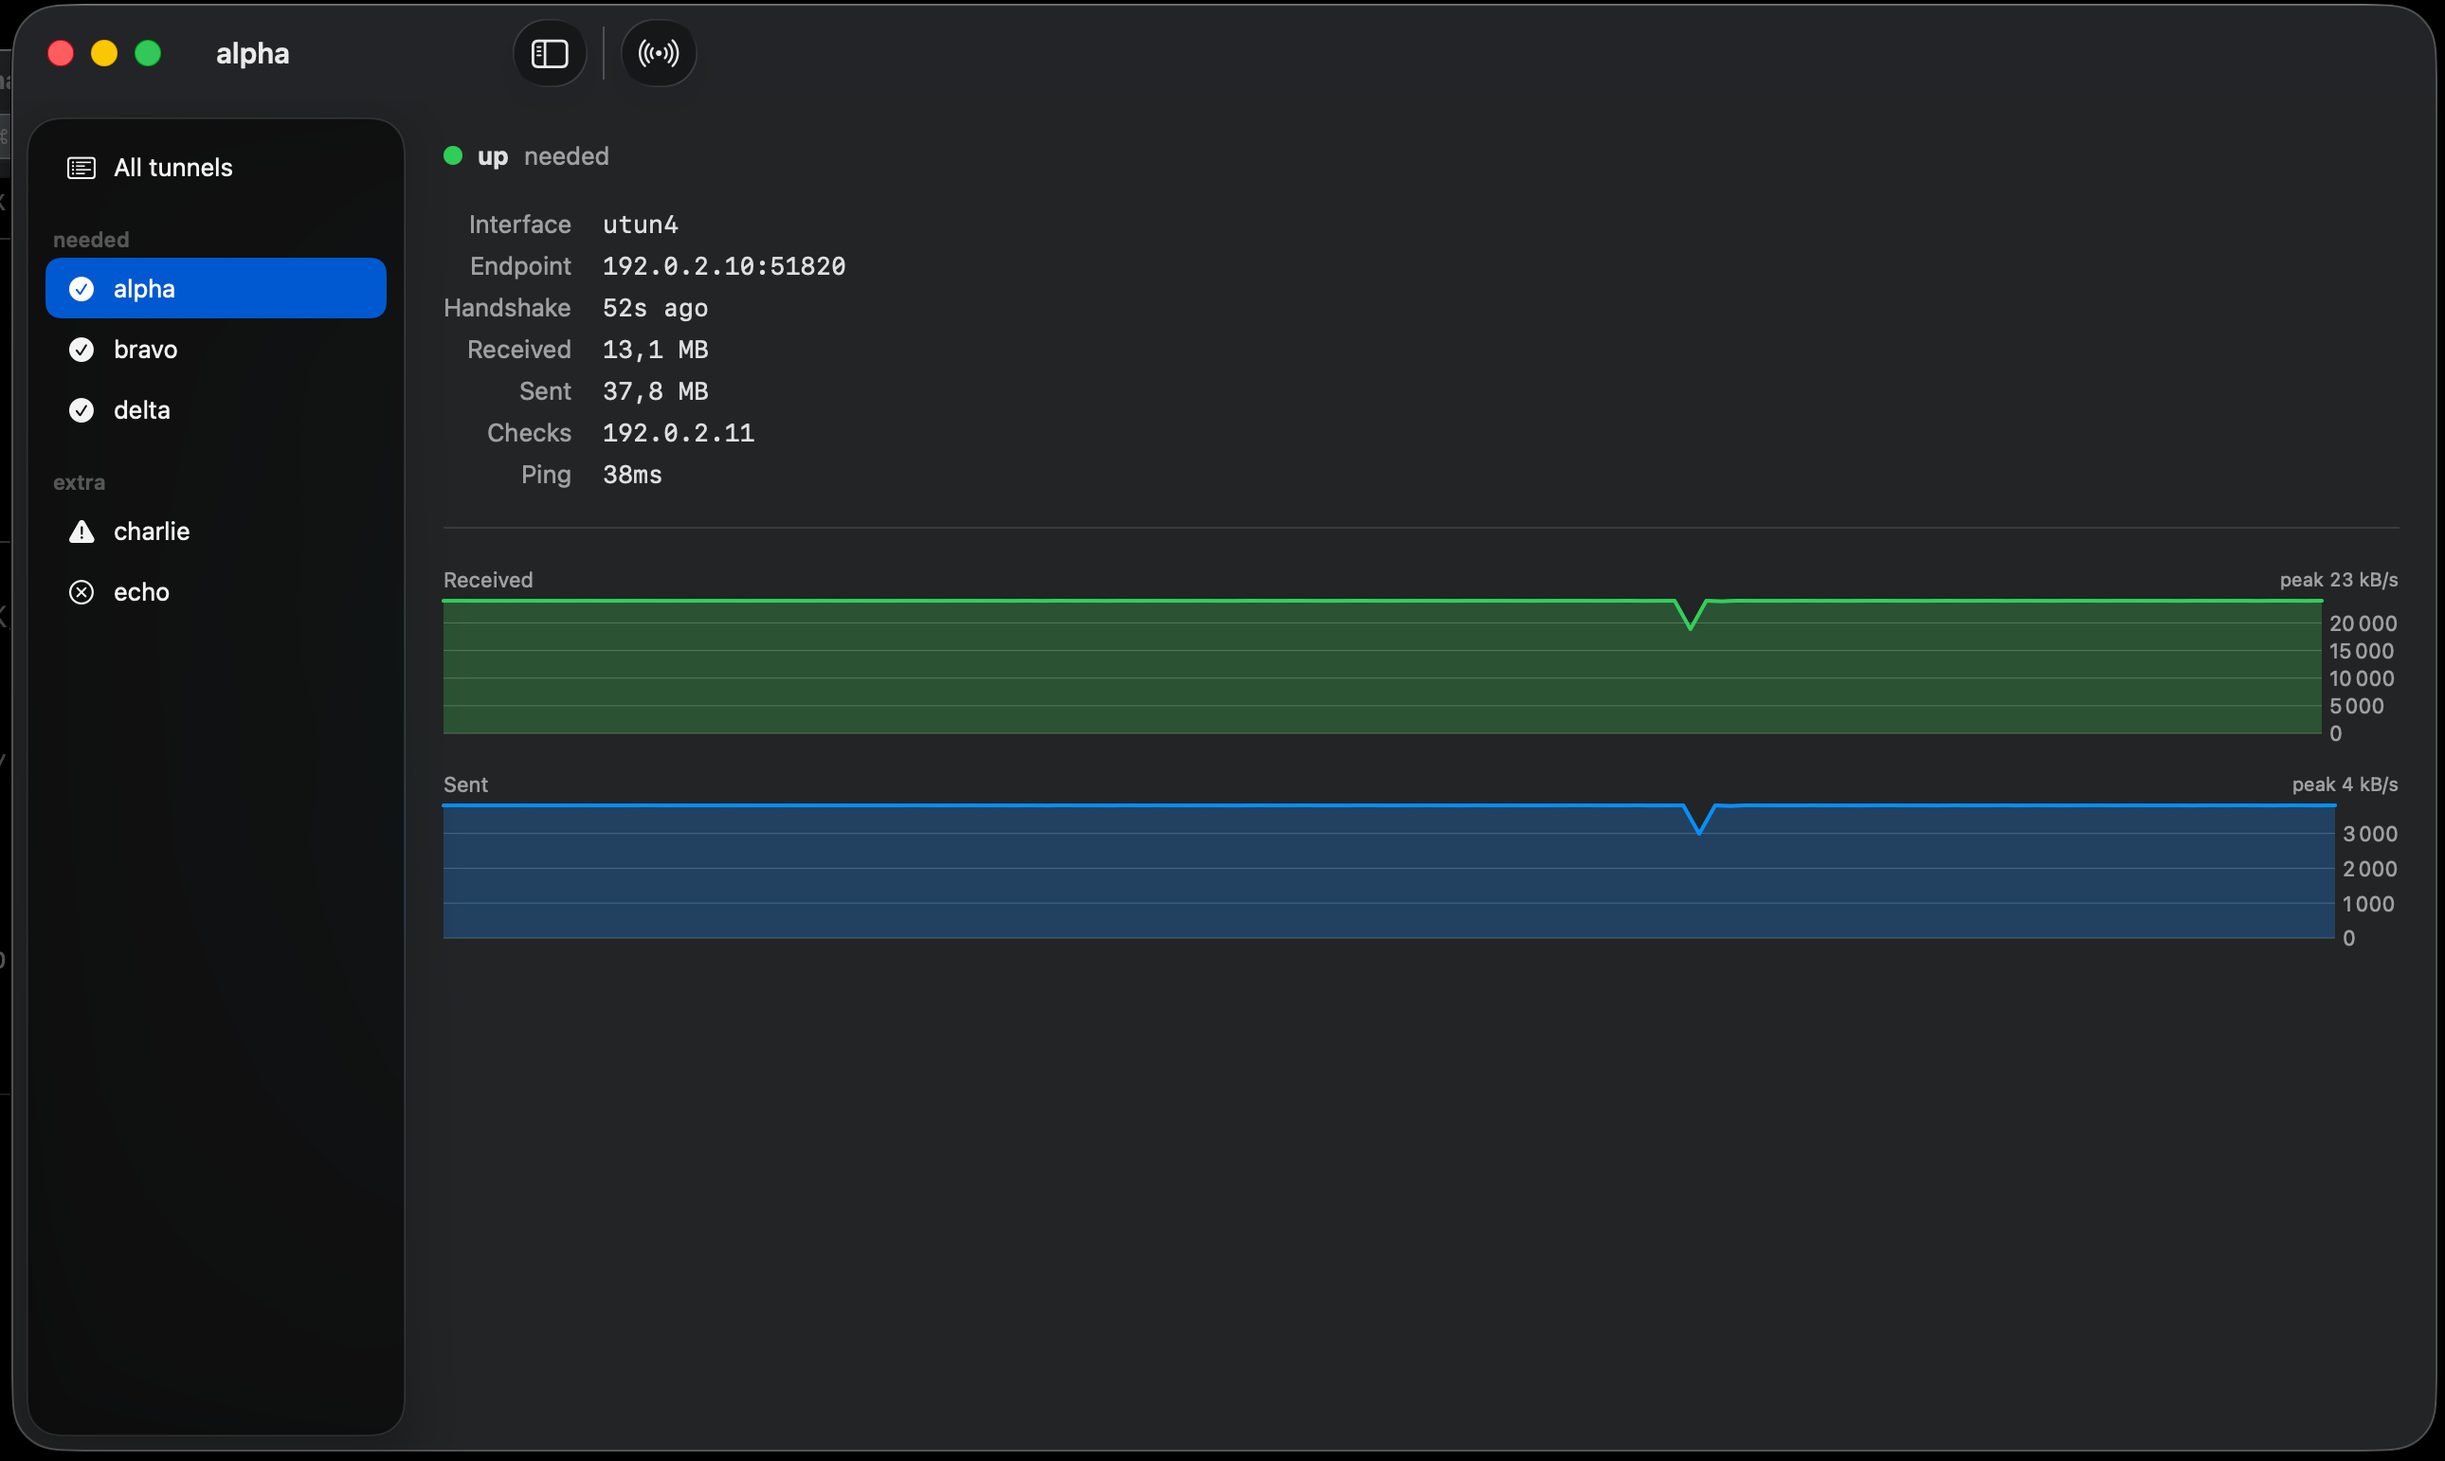
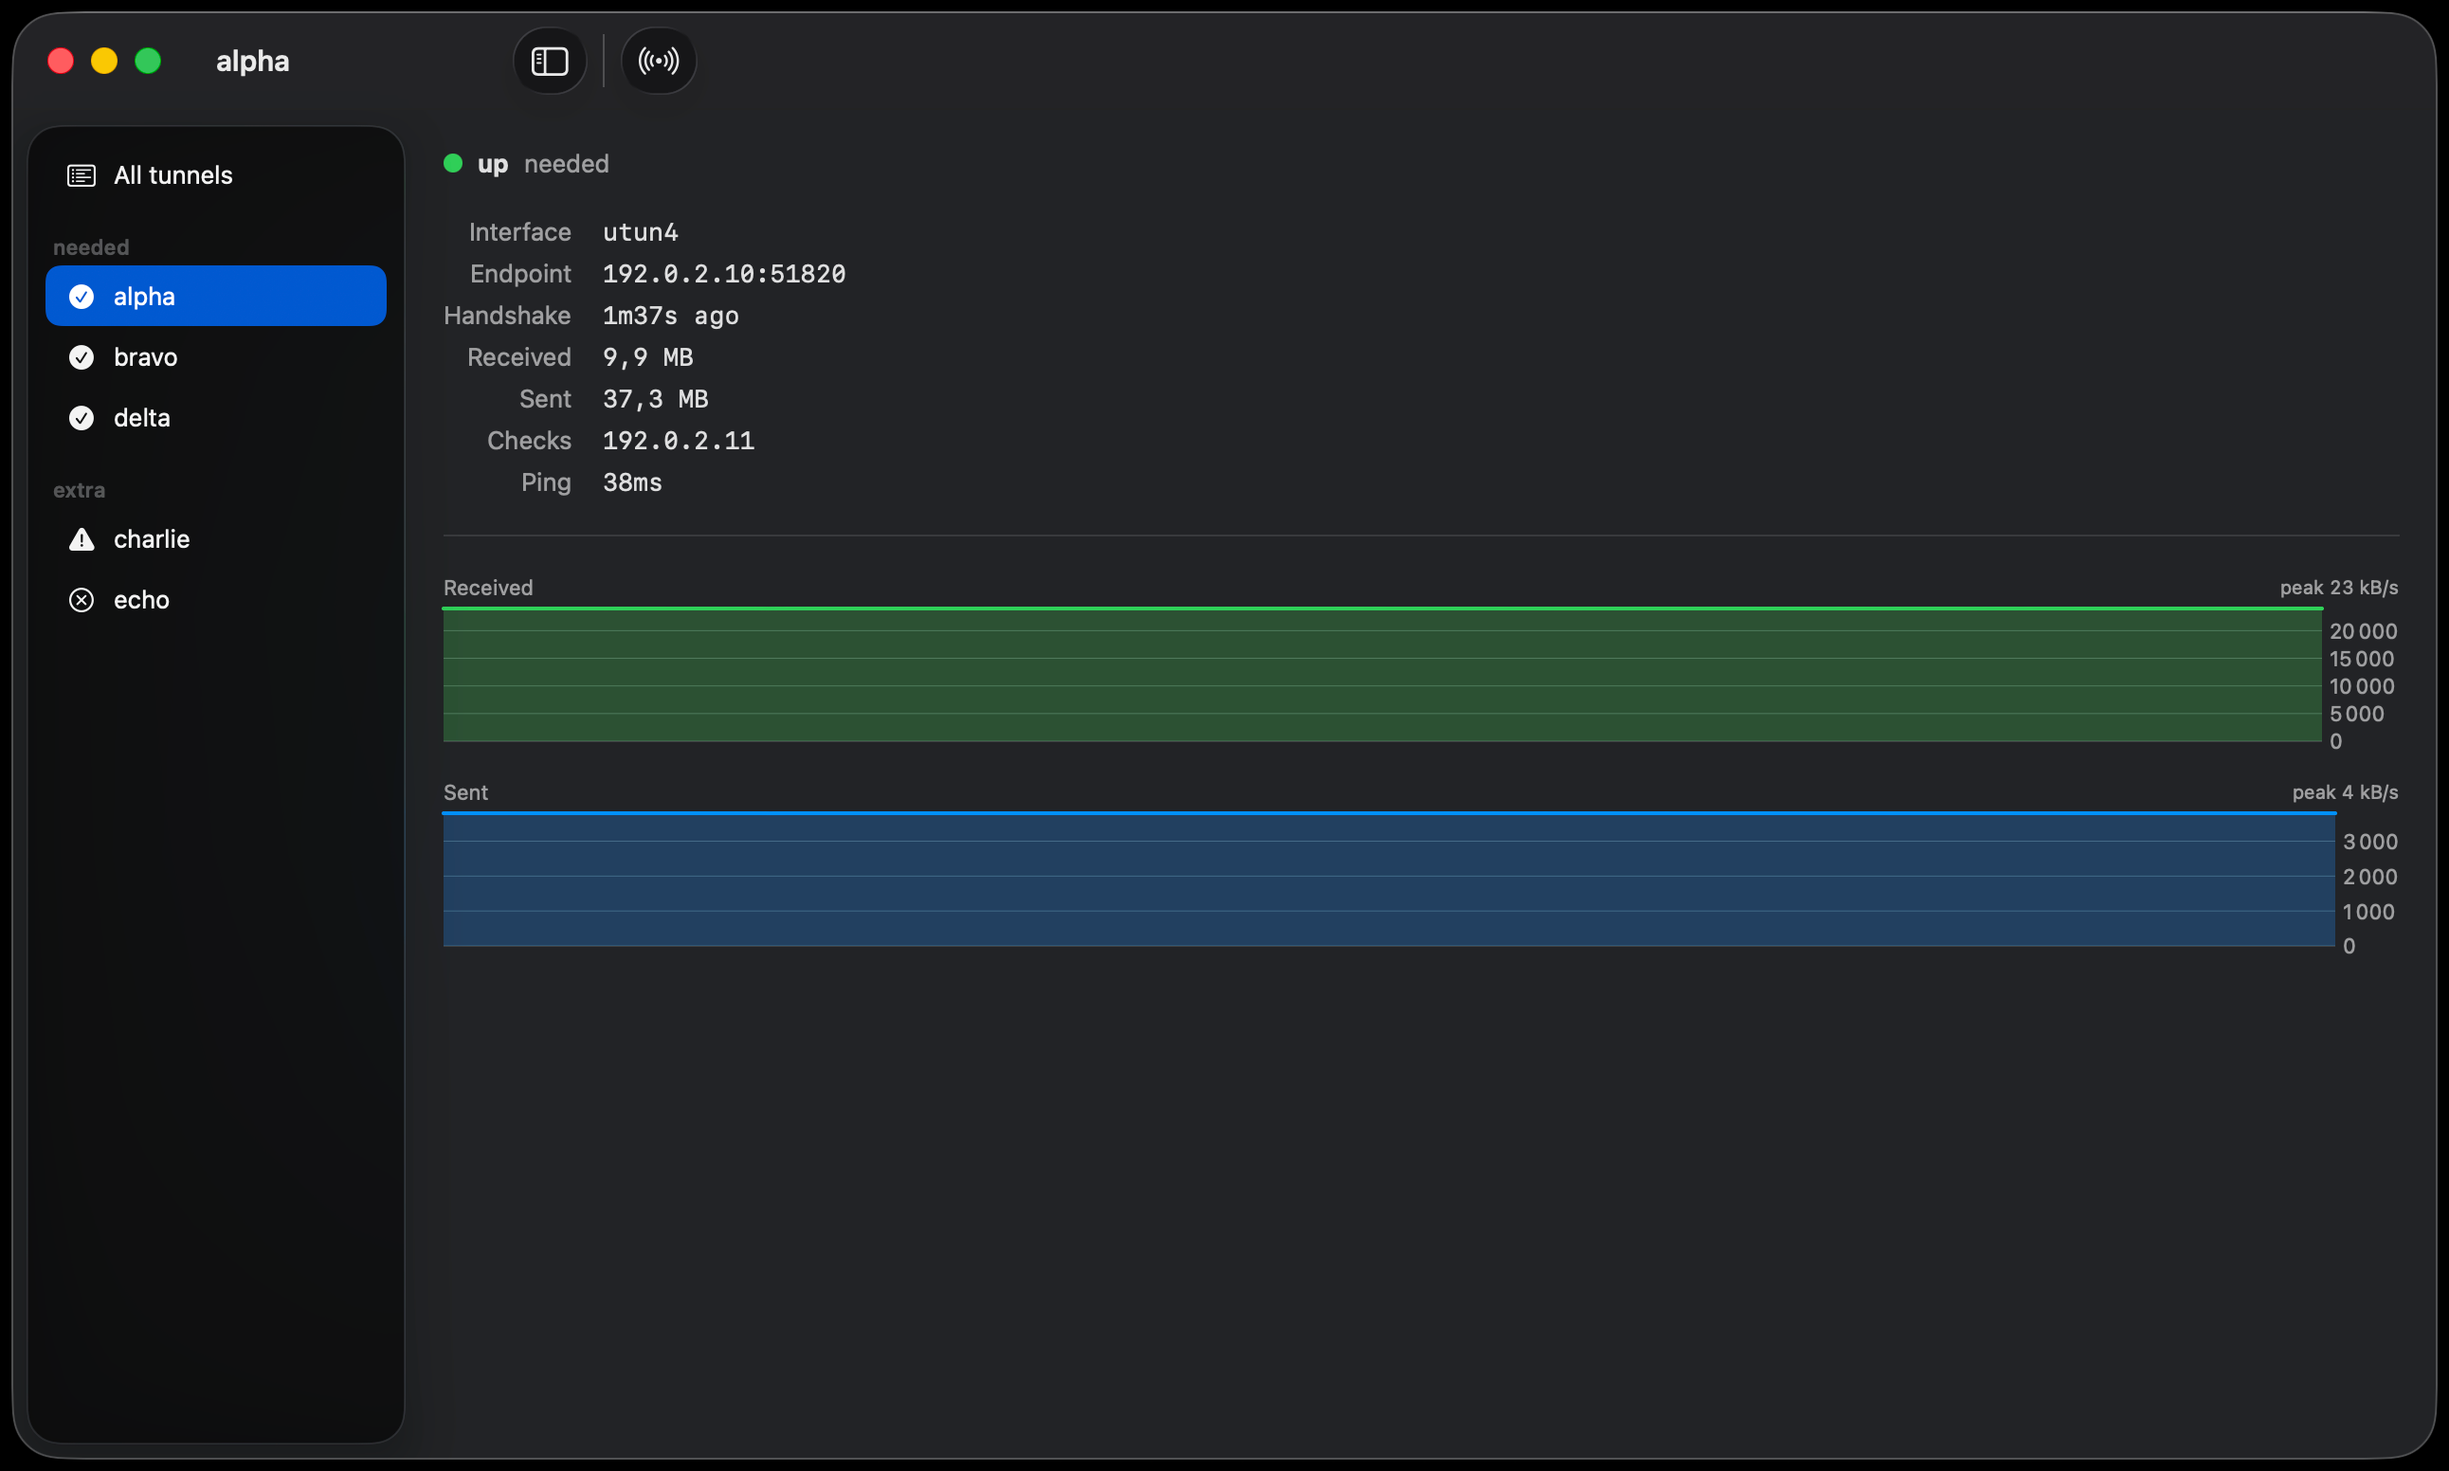
docs: show the thing, and say what to type on a fresh machine
The README described a terminal interface nobody could see and a menu bar
application it never mentioned. Four screenshots, taken against the
simulator so they can be retaken and so nobody's real network is in the
picture: the terminal at the top in place of an ASCII block that said the
same thing worse, and the application's three views under a section of
its own.

Each one is followed by the sentence explaining what it shows - the
glyph rather than the colour, a red cross against an empty cell, two
scales rather than one - because a screenshot with no caption is
decoration.

The install section becomes a walkthrough: wireguard-tools, the directory
at 0700 root:root, the import, doctor, then the two programs. It names
the two things that stop people on the first attempt - a .conf without a
"# TO_CHECK=" line is refused, and the example configuration ships
placeholder names that must all be replaced or `up --group` refuses a
tunnel that does not exist.

diff --git a/README.md b/README.md
@@ -14,17 +14,13 @@ Handshake age, transferred bytes, latency, and which network you are on.
 
 </div>
 
-```
- tun-manager  ctx: office (en0 198.51.100.42)                       next ⟳ 4m12s
- ───────────────────────────────────────────────────────────────────────────────
-    NAME          GRP    STATE   HANDSHAKE  RX / TX        PING   ENDPOINT
- ▸✓ alpha         needed ● up    12s        1.2M / 840K    18ms   192.0.2.10:51820
-    bravo         needed ● stale 9m04s      2.3M / 961K    ×      198.51.100.20:51821
-    charlie       extra  ○ down                                   gateway.example:51824
-    delta         —      ○ down                                   198.51.100.30:51822
- ───────────────────────────────────────────────────────────────────────────────
- r refresh · p ping · s down all · ␣ select · ⏎ toggle · n needed · g graph · l logs · ? help · q quit
-```
+![The tun-manager terminal interface: a table of five tunnels with their group,
+state, handshake age, transferred bytes, latency and endpoint, above a traffic
+graph of the selected tunnel.](assets/screenshot-tui.png)
+
+The tunnels above are invented, served by the simulator described in [Seeing it
+work, without tunnels](#seeing-it-work-without-tunnels) — so this is
+reproducible on a machine with no WireGuard on it at all.
 
 While a batch runs, a spinner turns beside the context, the header counts the
 tunnels off, and the row being waited on says so where its state would be — so a
@@ -39,6 +35,20 @@ slow `wg-quick` is never mistaken for a hung program:
     charlie       extra  ⠋ starting                                 gateway.example:51824
     delta         —      ⠋ stopping                                 198.51.100.30:51822
 ```
+
+## Why
+
+I run several WireGuard tunnels. Some have to be up whenever the laptop is,
+others only when I ask. Nothing I found managed that distinction, so for a
+while it was a shell script driving [gum](https://github.com/charmbracelet/gum)
+— which works, and stops scaling the moment the tunnel list grows.
+
+What it had to keep:
+
+- tunnels stay managed by [wireguard-tools](https://www.wireguard.com/), not by a reimplementation
+- configurations stay unreadable to anyone but root, so a key cannot leak
+  through a file listing
+- which tunnels are *needed* depends on the network the machine is on
 
 ## Why root
 
@@ -55,18 +65,6 @@ prompt for one. Two consequences are handled explicitly:
   through `SUDO_USER` instead;
 - root has no GUI session, so notifications are posted back as the pre-sudo user.
 
-Notifications show the logo above as a thumbnail when [`terminal-notifier`][tn]
-is installed (`brew install terminal-notifier`), and fall back to `osascript`
-without it.
-
-The icon on the left of a notification is not ours to set: since macOS 11 it is
-the icon of the `.app` bundle that sent the notification, so it shows whichever
-tool did the sending. `terminal-notifier` still accepts `-appIcon`, but macOS
-ignores it. `sudo tun-manager notify` posts a sample so you can see what your
-machine does with it.
-
-[tn]: https://github.com/julienXX/terminal-notifier
-
 ## Install
 
 Download the archive for your machine from the
@@ -74,12 +72,37 @@ Download the archive for your machine from the
 runs on both Intel and Apple Silicon — or build from source:
 
 ```sh
+brew install wireguard-tools
 make build              # ./bin/tun-manager alone
 make install            # /usr/local/bin/tun-manager
                         #   + /Applications/Tun Manager.app
 
+sudo mkdir -p /private/wireguard/config
+sudo chown 0:0 /private/wireguard /private/wireguard/config
+sudo chmod 700 /private/wireguard /private/wireguard/config
+sudo ls -ld /private/wireguard /private/wireguard/config
+
 mkdir -p ~/.config/tun-manager
 cp configs/config.example.yaml ~/.config/tun-manager/config.yaml
+
+# Sudo is mandatory: it copies the file into /private/wireguard/config, which is
+# owned by root and readable by nobody else. A "# TO_CHECK=" line is mandatory
+# in each configuration file before it can be imported.
+sudo tun-manager import <config1> ~/Downloads/config1.conf
+...
+# Edit ~/.config/tun-manager/config.yaml to fit the imported configurations.
+# The example ships placeholder names: replace every one of them under groups
+# and overrides, or up --group refuses a tunnel that does not exist.
+# import only ever adds to the "all" group -- needed and extra are yours to fill.
+
+# Check installation before first run
+sudo tun-manager doctor
+
+open "/Applications/Tun Manager.app"
+# "tun-manager is not running" is normal, fix this with:
+sudo tun-manager
+
+# Press 's' to start needed tunnels, check if menubar application is sync with TUI
 ```
 
 `make install` builds both halves, so it needs the Swift toolchain as well as
@@ -104,13 +127,7 @@ sudo tun-manager up --group needed  # resolved against the current network
 sudo tun-manager down --all
 sudo tun-manager import work ~/Downloads/work.conf
 sudo tun-manager backup             # tar.gz of the configuration and every .conf
-tun-manager doctor                  # environment check, works without root
-```
-
-Closing the laptop:
-
-```sh
-sudo tun-manager down --all ; gum confirm "Restart VPN?" && sudo tun-manager
+tun-manager doctor                  # environment check; sudo to see config_dir
 ```
 
 ### Keys
@@ -177,6 +194,43 @@ to one every two seconds, as refreshes are.
 It is only alive while `tun-manager` is: there is no daemon. Run
 `sudo tun-manager doctor` to see where the socket would bind and who could
 read it.
+
+### The menu bar application
+
+`Tun Manager.app` is the consumer of that socket. It shows state, graphs traffic
+and raises notifications, and it starts and stops nothing — which is why it needs
+no privileges of its own and no helper installed anywhere.
+
+<img src="assets/screenshot-app-menu.png" width="320" alt="The menu bar menu: tunnels grouped under needed and extra, each with a state glyph, then how long ago the state was updated, Refresh, Ping, About and Quit.">
+
+The state is in the glyph rather than the colour: the menu bar of macOS 26 is
+often transparent over whatever the wallpaper happens to be, and a coloured
+glyph is unreadable there. `needed` is listed first because it is the group the
+answer to "is everything up?" depends on.
+
+`p` asks `tun-manager` for a round of probes — the same key it is in the
+terminal. Clicking a tunnel opens a window, which lists them all with what the
+terminal's table shows.
+
+![The window's overview: every tunnel in one table, with state, handshake age,
+transferred bytes, latency and endpoint. One tunnel is stale and its latency
+cell holds a red cross.](assets/screenshot-app-overview.png)
+
+A cross in the latency column is a probe that got no answer, with the reason on
+hover. An empty cell is a tunnel nobody probed, which is a different thing and
+reads as one.
+
+Picking a tunnel on the left shows what is going through it — download and
+upload each on its own scale, so a busy download does not flatten the upload
+into a line along the axis. The byte counts beside the charts are as fresh as
+the charts rather than the minutes-old ones from the last full refresh.
+
+![One tunnel in the window: interface, endpoint, handshake age, bytes received
+and sent, check address and latency, above separate charts for received and sent
+traffic.](assets/screenshot-app-detail.png)
+
+Switching tunnels keeps every history: the subscriptions are released only when
+the window closes. Building it is in [`macos/README.md`](macos/README.md).
 
 ## Seeing it work, without tunnels
 
@@ -364,6 +418,20 @@ those sections is missing.
 
 Secrets never leave the parser: `PrivateKey` and `PresharedKey` are ignored, and
 the log pane redacts anything shaped like a WireGuard key.
+
+## Notification without `Tun Manager.app`
+
+Notifications show the logo above as a thumbnail when [`terminal-notifier`][tn]
+is installed (`brew install terminal-notifier`), and fall back to `osascript`
+without it.
+
+The icon on the left of a notification is not ours to set: since macOS 11 it is
+the icon of the `.app` bundle that sent the notification, so it shows whichever
+tool did the sending. `terminal-notifier` still accepts `-appIcon`, but macOS
+ignores it. `sudo tun-manager notify` posts a sample so you can see what your
+machine does with it.
+
+[tn]: https://github.com/julienXX/terminal-notifier
 
 ## License
 
